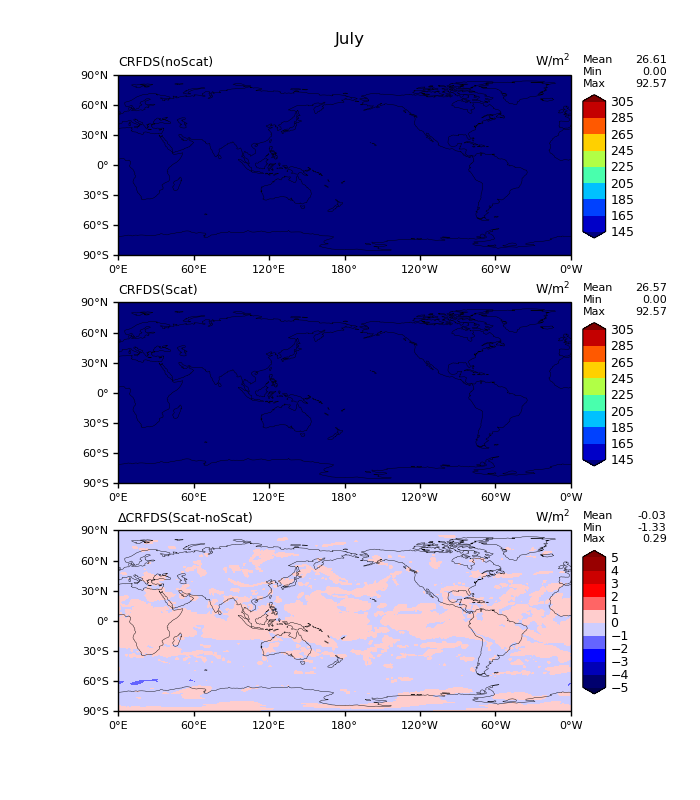
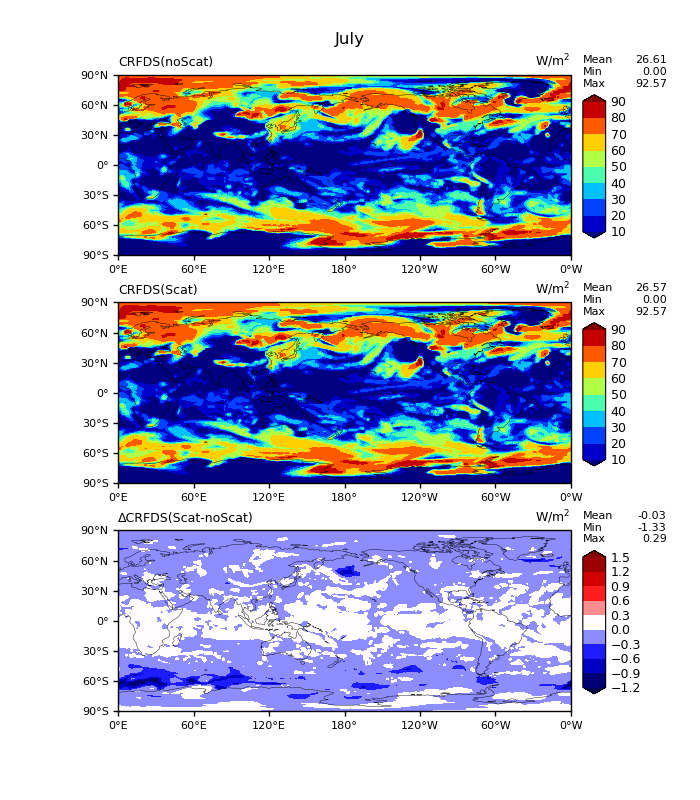
plot CRFSD offline

diff --git a/d1_lon_lat_contour_model_vs_model_sgl.py b/d1_lon_lat_contour_model_vs_model_sgl.py
@@ -123,16 +123,16 @@ for i in range(0,3):
     norm = None
     if i != 2:
         #cnlevels=np.array([0,10,20,30,40,50,60]) #parameters["contour_levs"]
-        cnlevels=np.arange(145,320,20)
+        #cnlevels=np.arange(145,320,20)
         #cnlevels=np.arange(90,450,30)
         #cnlevels=np.arange(20,150,10)
-        #cnlevels=np.arange(0,80,8)
+        cnlevels=np.arange(10,100,10)
         #cnlevels=np.arange(0,1,0.1)
     else:
         #cnlevels=np.arange(-0.5,0.6,0.1)
         #cnlevels=np.arange(-7,8,1)
         #cnlevels=np.arange(-0.8,1.0,0.2)
-        cnlevels=np.arange(-5,6,1)
+        cnlevels=np.arange(-1.2,1.5,0.3)
         #cnlevels=np.array([-4,-3.5,-3,-2.5,-2,-1.5,-1.,-0.5,0.5,1.,1.5,2.,2.5,3.,3.5,4.]) #parameters["diff_levs"]
 
     #if len(cnlevels) >0:
